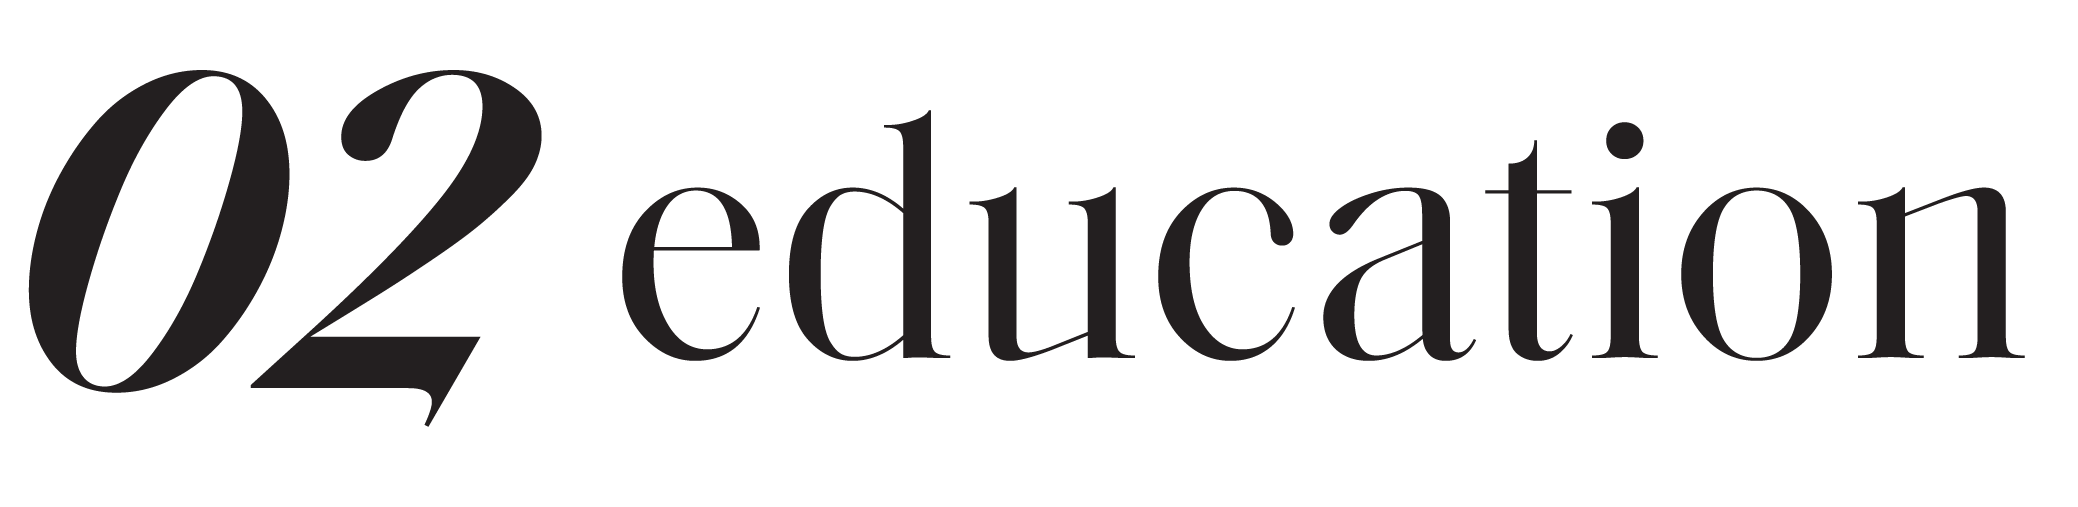
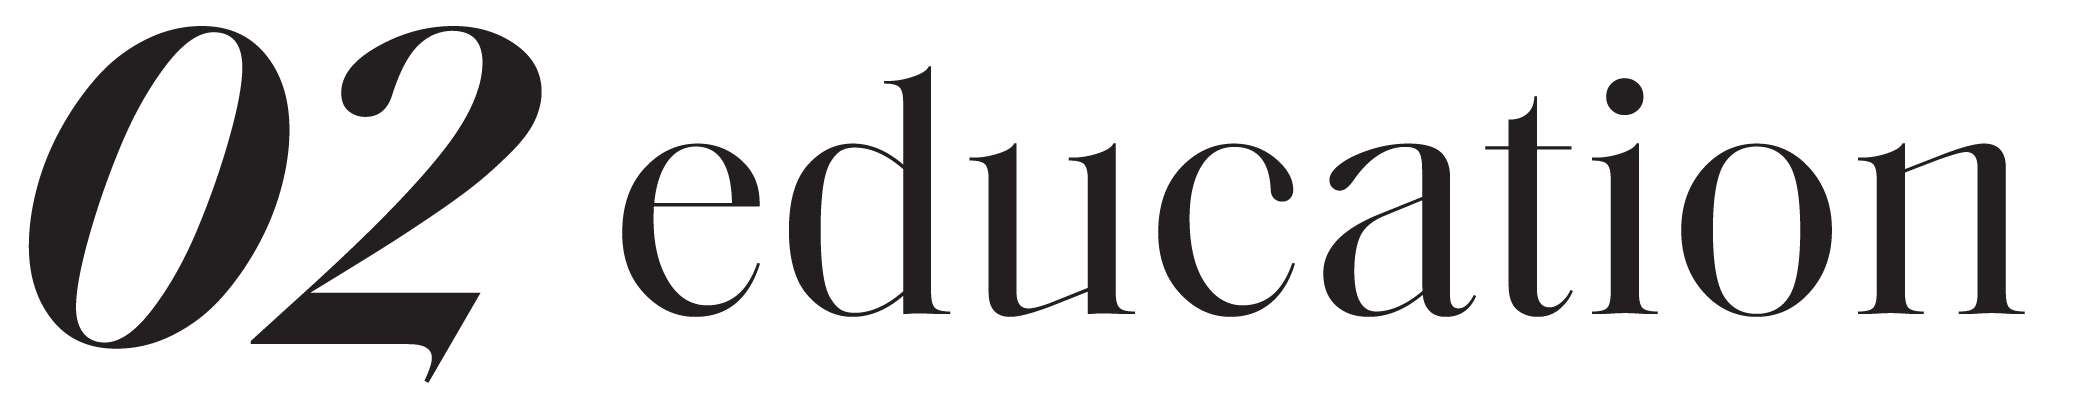
hd

diff --git a/index.html b/index.html
@@ -131,7 +131,7 @@
                    
                   
 
-<img src="images/skills-02.png" height="100px">
+<img src="images/headings-07.png" height="100px" width="316.92px" class="img-fluid">
                           </div>
                  <div class="container mx-auto mt-4">
                      <div class="row">
@@ -317,7 +317,7 @@
                   <div class="white_bg pb-5 pt-5">
                       <div class="col-5 offset-3">
                      
-<img src="images/headings-01.png" height="100px" class="img-responsive" >
+<img src="images/headings-01.png" height="100px" width="498.37px" class="img-fluid">
                           
                           </div>
                       <div class="row mt-5">
@@ -363,7 +363,7 @@
                   <div class="white_bg pb-5 pt-5">
                  
      <div class="col-6 offset-2">
- <img src="images/headings-02.png" height="100px" class="img-responsive" >
+ <img src="images/headings-02.png" height="121.3px" width="536.76px" class="img-fluid">
                           </div>
 
 		<div class="container">
@@ -498,7 +498,7 @@
                  
      <div class="col-5 offset-2">
                      
-<img src="images/headings-03.png" height="100px" class="img-responsive" >
+<img src="images/headings-03.png" height="121px" width="454px" class="img-fluid">
                           </div>
                       <div class="container">
                           <div class="row offset-2">
@@ -755,7 +755,7 @@
                      <div class="container">
                       <div class="row">
                           
-  <img src="images/headings-04.png" height="100px" class="mx-auto">
+  <img src="images/headings-04.png" height="100px" width="710px" class="img-fluid mx-auto">
                           </div>
                       <div class="row">
                            <div class="col-md-5 mx-auto">
